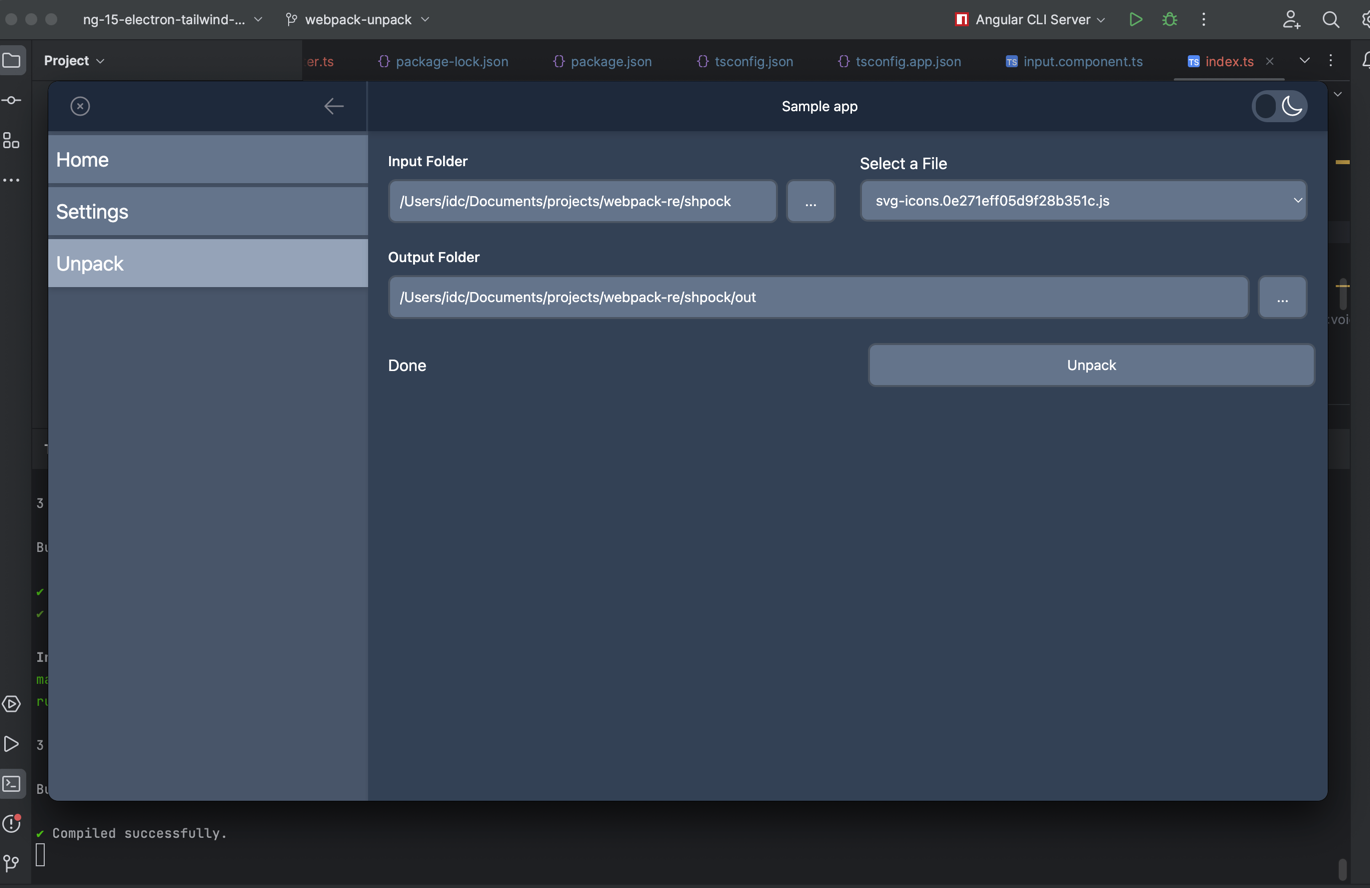
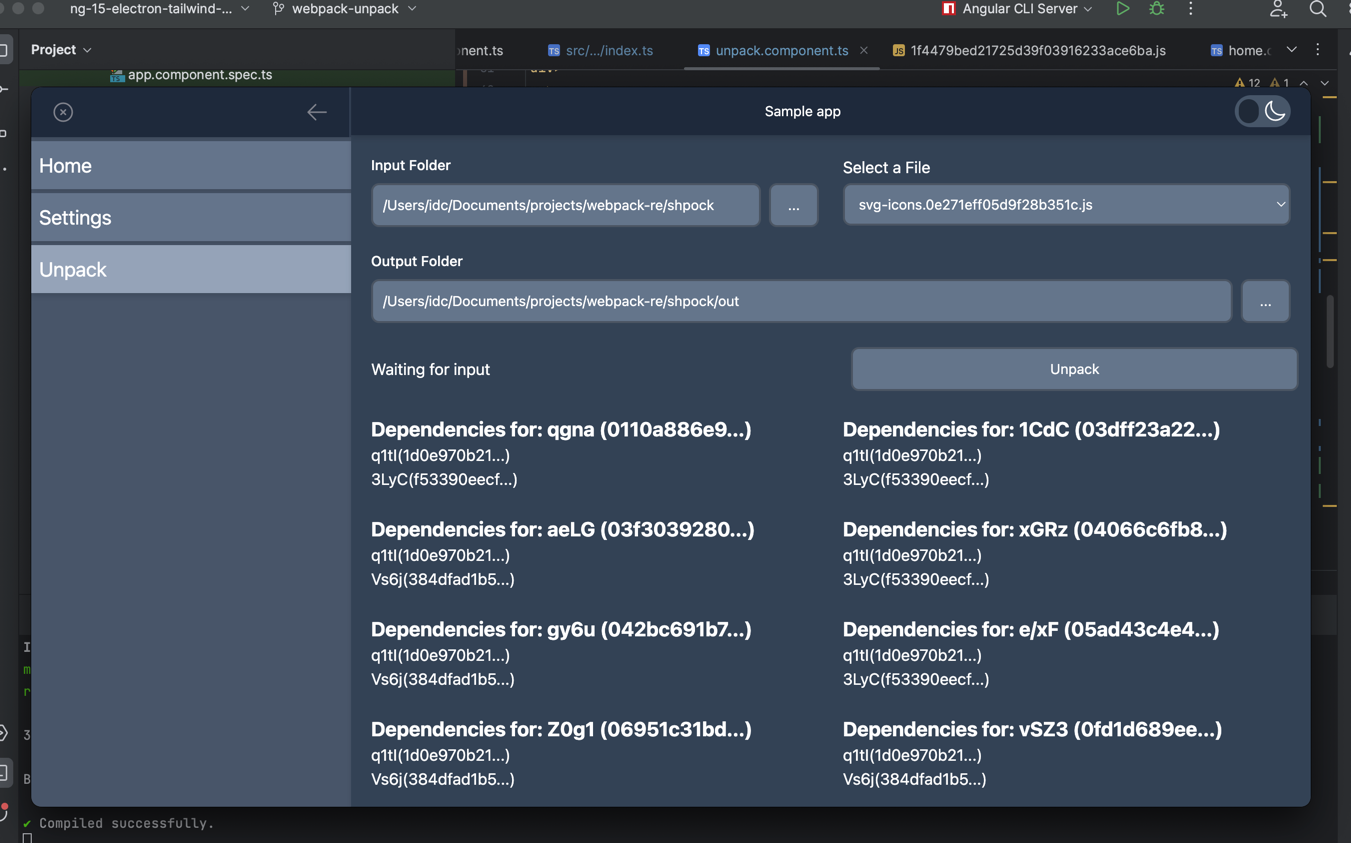
adds dependency graph

diff --git a/src/app/routes/unpack/unpack.component.ts b/src/app/routes/unpack/unpack.component.ts
@@ -8,43 +8,58 @@ import {Observable, ReplaySubject} from 'rxjs';
 const  fs: typeof import("fs") = window.require('fs');
 // @ts-ignore
 const  {ipcRenderer} = window.require('electron');
+interface MetaData {
+  isEntryPoint: boolean;
+  hash: string;
+  moduleId: string;
+  dependencies: {
+    id: string;
+    hash: string
+  }[];
+}
 @Component({
   selector: 'app-unpack',
   standalone: true,
   imports: [CommonModule, InputComponent, ReactiveFormsModule],
   template: `
-      <form [formGroup]="fg">
-          <div class="grid gap-6 mb-6 md:grid-cols-2">
-              <app-input formControlName="inputFolder" title="Input Folder" placeholder="Input folder path">
-                  <div (click)="selectFolder('inputFolder')"
-                       class="cursor-pointer transition-all delay-0 hover:scale-110 ml-2 flex justify-center items-center w-12 max-w-[50px] border-2 bg-gray-50  border-gray-300 text-gray-900 text-sm rounded-lg block w-full p-2.5 dark:bg-slate-500 dark:border-gray-600 dark:text-white">
-                      <p>...</p>
-                  </div>
-              </app-input>
-            <div><label for="large" class="block mb-1 text-base  text-gray-900 dark:text-white">Select a File</label>
-              <select id="large" formControlName="selectedFile" (change)="fileChange($event)"
-                      class="border-2 bg-gray-50  border-gray-300 text-gray-900 text-sm rounded-lg focus:ring-blue-500 focus:border-blue-500 block w-full p-2.5 dark:bg-slate-500 dark:border-gray-600 dark:placeholder-gray-400 dark:text-white dark:focus:ring-blue-500 dark:focus:border-blue-500">
-                <option selected>Select a file</option>
-                <option *ngFor="let file of jsFiles" [value]="file">{{file}}</option>
-              </select>
-            </div>
+    <form [formGroup]="fg">
+      <div class="grid gap-6 mb-6 md:grid-cols-2">
+        <app-input formControlName="inputFolder" title="Input Folder" placeholder="Input folder path">
+          <div (click)="selectFolder('inputFolder')"
+               class="cursor-pointer transition-all delay-0 hover:scale-110 ml-2 flex justify-center items-center w-12 max-w-[50px] border-2 bg-gray-50  border-gray-300 text-gray-900 text-sm rounded-lg block w-full p-2.5 dark:bg-slate-500 dark:border-gray-600 dark:text-white">
+            <p>...</p>
           </div>
-          <div class="grid gap-6 mb-6 md:grid-cols-1">
-            <app-input formControlName="outputFolder" title="Output Folder" placeholder="Output folder path">
-              <div (click)="selectFolder('outputFolder')"
-                   class="cursor-pointer transition-all delay-0 hover:scale-110 ml-2 flex justify-center items-center w-12 max-w-[50px] border-2 bg-gray-50  border-gray-300 text-gray-900 text-sm rounded-lg block w-full p-2.5 dark:bg-slate-500 dark:border-gray-600 dark:text-white">
-                <p>...</p>
-              </div>
-            </app-input>
+        </app-input>
+        <div><label for="large" class="block mb-1 text-base  text-gray-900 dark:text-white">Select a File</label>
+          <select id="large" formControlName="selectedFile" (change)="fileChange($event)"
+                  class="border-2 bg-gray-50  border-gray-300 text-gray-900 text-sm rounded-lg focus:ring-blue-500 focus:border-blue-500 block w-full p-2.5 dark:bg-slate-500 dark:border-gray-600 dark:placeholder-gray-400 dark:text-white dark:focus:ring-blue-500 dark:focus:border-blue-500">
+            <option selected>Select a file</option>
+            <option *ngFor="let file of inputFiles" [value]="file">{{file}}</option>
+          </select>
+        </div>
+      </div>
+      <div class="grid gap-6 mb-6 md:grid-cols-1">
+        <app-input formControlName="outputFolder" title="Output Folder" placeholder="Output folder path">
+          <div (click)="selectFolder('outputFolder')"
+               class="cursor-pointer transition-all delay-0 hover:scale-110 ml-2 flex justify-center items-center w-12 max-w-[50px] border-2 bg-gray-50  border-gray-300 text-gray-900 text-sm rounded-lg block w-full p-2.5 dark:bg-slate-500 dark:border-gray-600 dark:text-white">
+            <p>...</p>
           </div>
-        <div class="items-center grid gap-6 mb-6 md:grid-cols-2">
-          <div>{{status |async}}</div>
+        </app-input>
+      </div>
+      <div class="items-center grid gap-6 mb-6 md:grid-cols-2">
+        <div>{{status |async}}</div>
         <div (click)="unpack()"
-          class="cursor-pointer  transition-all delay-0 hover:scale-110 ml-2 flex justify-center items-center  border-2 bg-gray-50  border-gray-300 text-gray-900 text-sm rounded-lg block w-full p-2.5 dark:bg-slate-500 dark:border-gray-600 dark:text-white">
+             class="cursor-pointer  transition-all delay-0 hover:scale-110 ml-2 flex justify-center items-center  border-2 bg-gray-50  border-gray-300 text-gray-900 text-sm rounded-lg block w-full p-2.5 dark:bg-slate-500 dark:border-gray-600 dark:text-white">
           <p>Unpack</p>
         </div>
+      </div>
+      <div *ngIf="metaData.length > 0" class="grid break-words gap-6 mb-6 md:grid-cols-2">
+        <div *ngFor="let md of metaData">
+          <h1 class="font-bold text-xl">Dependencies for: {{md.moduleId}} ({{md.hash.slice(0,10)}}...)</h1>
+          <p *ngFor="let dep of md.dependencies">{{dep.id}}({{dep.hash.slice(0,10)}}...)</p>
         </div>
-      </form>
+      </div>
+    </form>
   `,
   styles: [
   ]
@@ -78,14 +93,27 @@ export class UnpackComponent implements OnInit{
     localStorage.setItem('unpack-config', JSON.stringify(this.config));
   }
 
-  jsFiles: string[] = [];
+  inputFiles: string[] = [];
+  outputFiles: string[] = [];
+  metaData: MetaData[] = [];
   loadFiles() {
 
     if(!this.fg.value.inputFolder)
       return;
-    this.jsFiles = fs.readdirSync(this.fg.value.inputFolder)?.filter(file => {
+    this.inputFiles = fs.readdirSync(this.fg.value.inputFolder)?.filter(file => {
       return file.includes('.js');
     }) ?? [];
+    if(!this.fg.value.outputFolder)
+      return;
+    this.outputFiles = fs.readdirSync(this.fg.value.outputFolder)?.filter(file => {
+      return file.includes('.js');
+    }) ?? [];
+    this.metaData = this.outputFiles.map(f => this.collectMetaData(f));
+  }
+  collectMetaData(fileName: string): MetaData {
+    const file = fs.readFileSync(`${this.fg.value.outputFolder}/${fileName}`, 'utf-8');
+    const metaDataString = file.match(/\*(.|[\r\n])*\*/)?.[0].replace('/*', '').replace('*/', '').replace(/\*/g,'') as string;
+    return JSON.parse(metaDataString);
   }
   fileChange(event: any) {
     this.onFormChange();

diff --git a/src/app/logic/webpack-unpack/index.ts b/src/app/logic/webpack-unpack/index.ts
@@ -52,22 +52,29 @@ const collectHashes = (modules: Module[]): HashList => {
 }
 const fixSource = (module: Module, hashList: HashList) => {
     let source = module.source;
-    let moduleInfo = `// moduleId: ${module.id} | hash: ${hashList[module.id]}\n// isEntryPoint: ${module.entry ? 'true' : 'false'}\n// Dependencies:\n`;
+    // let moduleInfo = `// moduleId: ${module.id} | hash: ${hashList[module.id]}\n// isEntryPoint: ${module.entry ? 'true' : 'false'}\n// Dependencies:\n`;
+    let moduleInfo = {
+      moduleId: module.id,
+      hash: hashList[module.id],
+      isEntryPoint:module.entry,
+      dependencies: [] as any[]
+    }
     if (module.deps) {
         Object.values(module.deps).sort((a, b) => parseInt(b + '', 0) - parseInt(a + '', 0)).forEach(dep => {
             const escapedDep = escapeRegExp(dep+'');
-            moduleInfo += `// id: ${dep} | hash: ${hashList[dep + '']}\n`;
+            moduleInfo.dependencies.push({id: dep, hash: hashList[dep + '']} );
+            // moduleInfo += `// id: ${dep} | hash: ${hashList[dep + '']}\n`;
             console.log(`replacing ${dep} with ${hashList[dep + '']}`);
             source = source.replace(new RegExp('\\( \'', 'g'), '(\'');
             source = source.replace(new RegExp('\\( "', 'g'), '("');
             source = source.replace(new RegExp('\' \\)', 'g'), '\')');
             source = source.replace(new RegExp('" \\)', 'g'), '")');
-            source = source.replace(new RegExp(`require\\(${escapedDep}\\)`, 'g'), `require("./${hashList[dep + '']}.js")`);
-            source = source.replace(new RegExp(`require\\("${escapedDep}"\\)`, 'g'), `require("./${hashList[dep + '']}.js")`);
-            source = source.replace(new RegExp(`require\\('${escapedDep}'\\)`, 'g'), `require("./${hashList[dep + '']}.js")`);
+            source = source.replace(new RegExp(`require\\(${escapedDep}\\)`, 'g'), `require("./${hashList[dep + '']}")`/*.js*/);
+            source = source.replace(new RegExp(`require\\("${escapedDep}"\\)`, 'g'), `require("./${hashList[dep + '']}")`/*.js*/);
+            source = source.replace(new RegExp(`require\\('${escapedDep}'\\)`, 'g'), `require("./${hashList[dep + '']}.")`/*.js*/);
         })
     }
-    return moduleInfo + '\n\n' + source;
+    return `/*\n${JSON.stringify(moduleInfo, null,2)}\n*/` + '\n\n' + source;
 }
 
 const timeout = () => {
